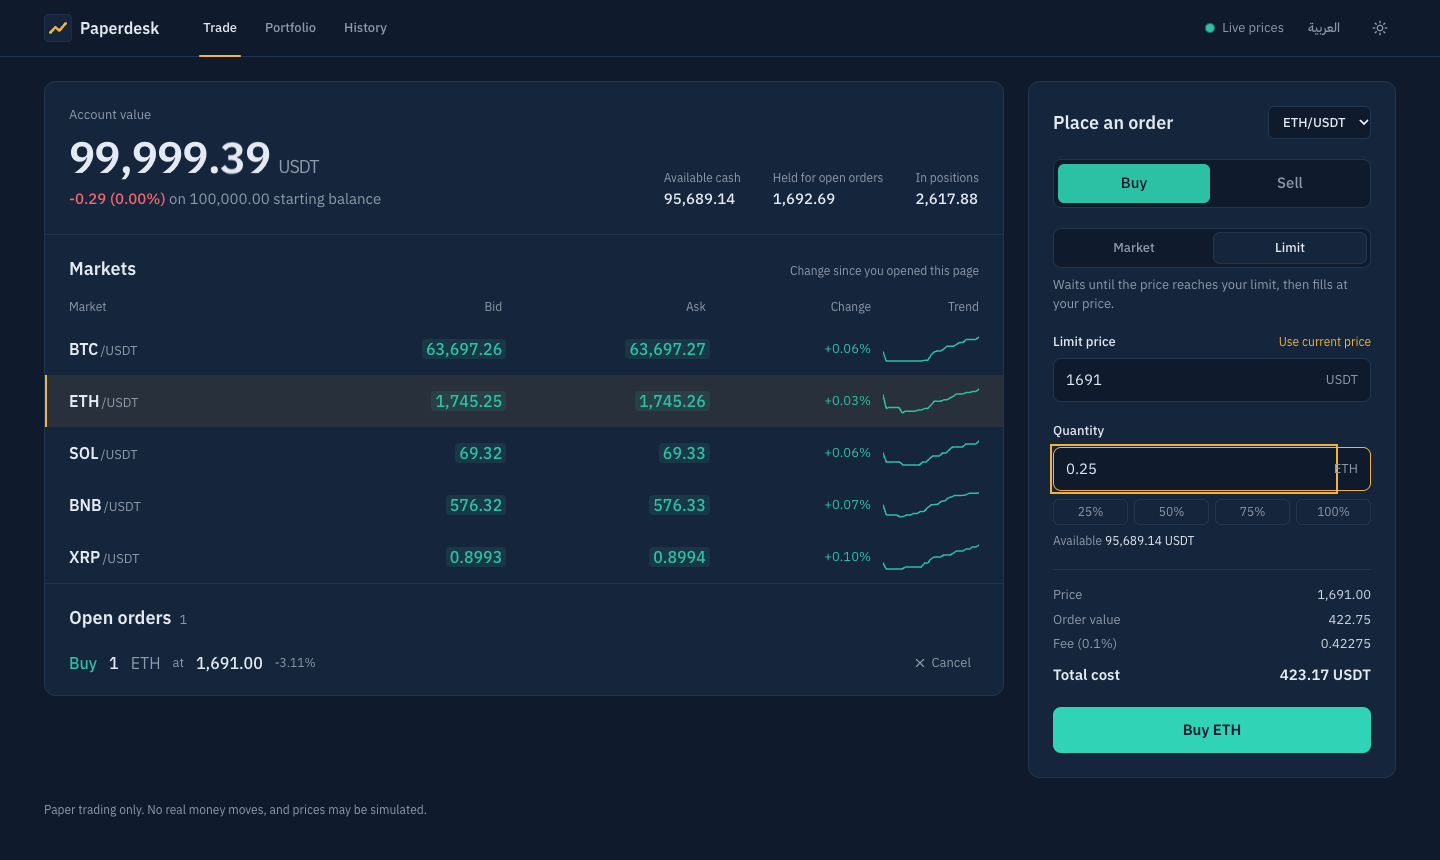
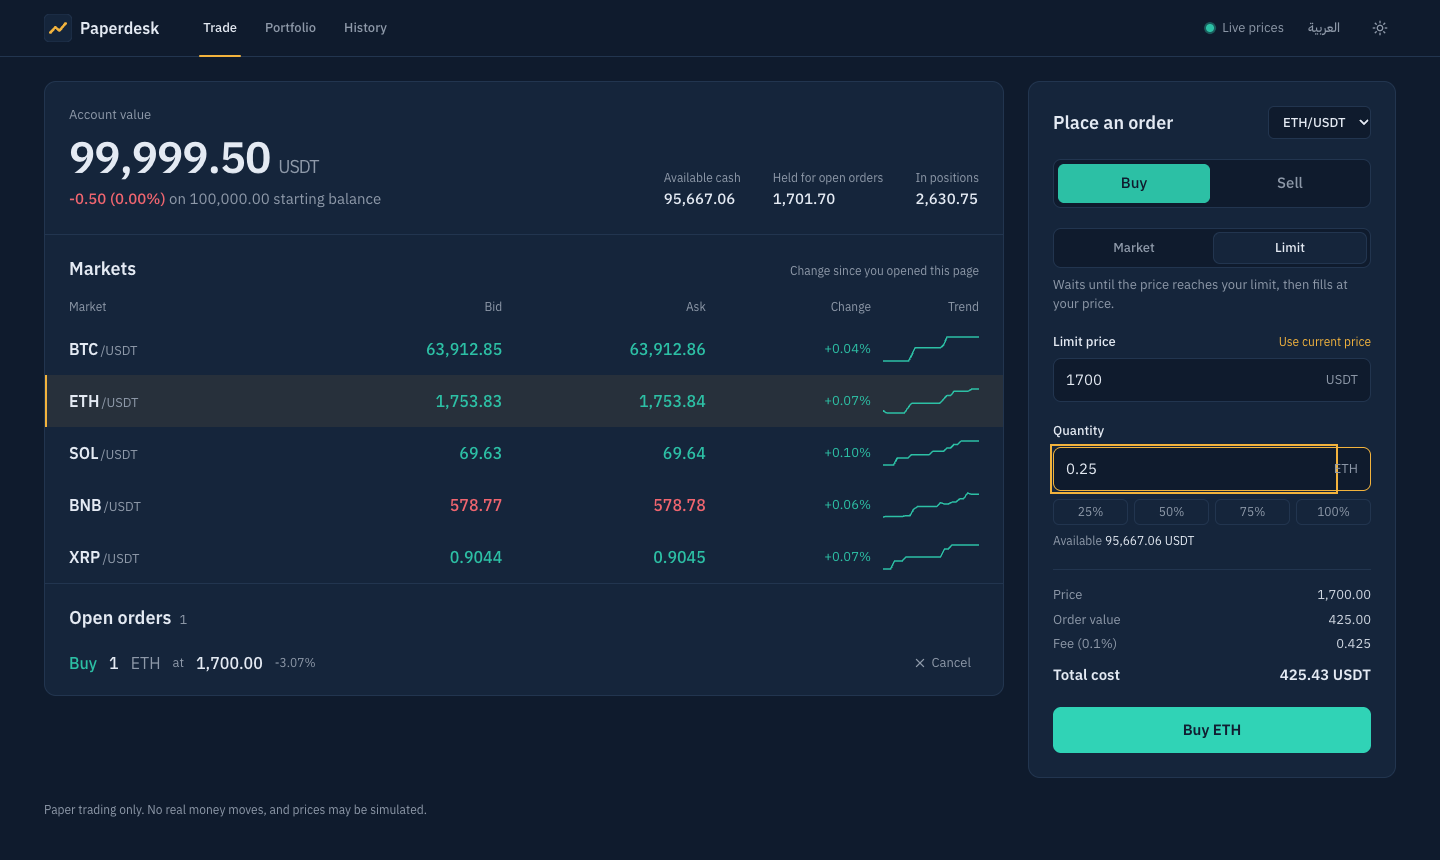
Draw ticket field focus around the whole field; refresh README screenshots

diff --git a/frontend/src/components/OrderTicket.tsx b/frontend/src/components/OrderTicket.tsx
@@ -328,7 +328,8 @@ function NumberField(props: {
       </div>
       <div
         className={clsx(
-          'flex items-center rounded-lg border bg-harbor transition-colors focus-within:border-lantern',
+          // The whole field (input + unit) shows focus, instead of an outline around the input alone.
+          'flex items-center rounded-lg border bg-harbor transition-colors focus-within:border-lantern focus-within:ring-2 focus-within:ring-lantern/30',
           issue ? 'border-fall' : 'border-rule',
         )}
       >
@@ -344,7 +345,7 @@ function NumberField(props: {
           placeholder="0.00"
           aria-invalid={issue ? true : undefined}
           aria-describedby={issue ? errorId : undefined}
-          className="num min-w-0 flex-1 bg-transparent px-3 py-2.5 text-base outline-none placeholder:text-muted/60"
+          className="num min-w-0 flex-1 bg-transparent px-3 py-2.5 text-base outline-none focus-visible:outline-none placeholder:text-muted/60"
           dir="ltr"
         />
         <span className="pe-3 text-sm text-muted">{unit}</span>
